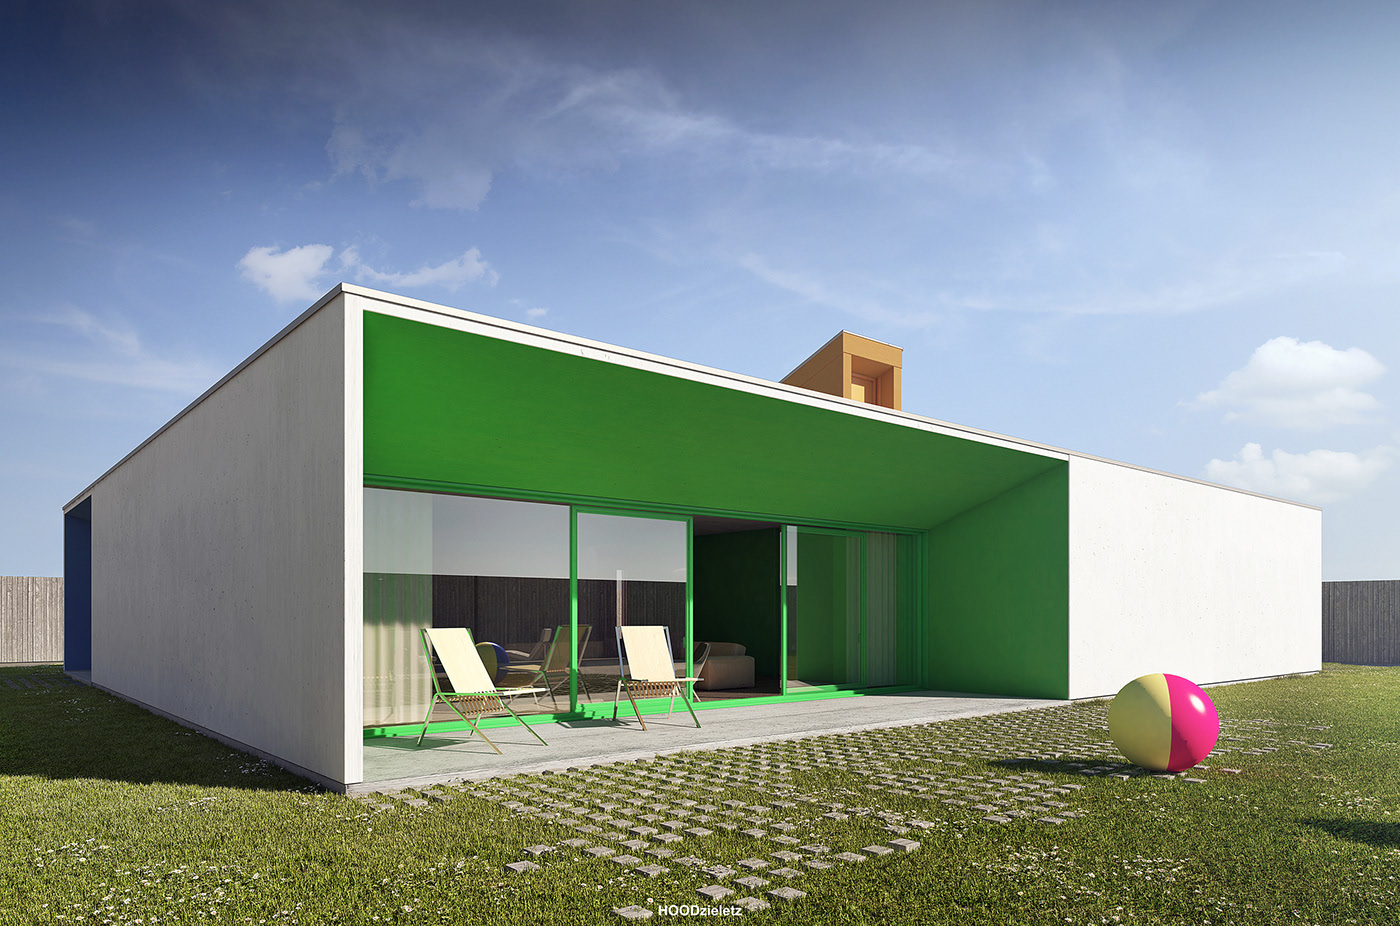
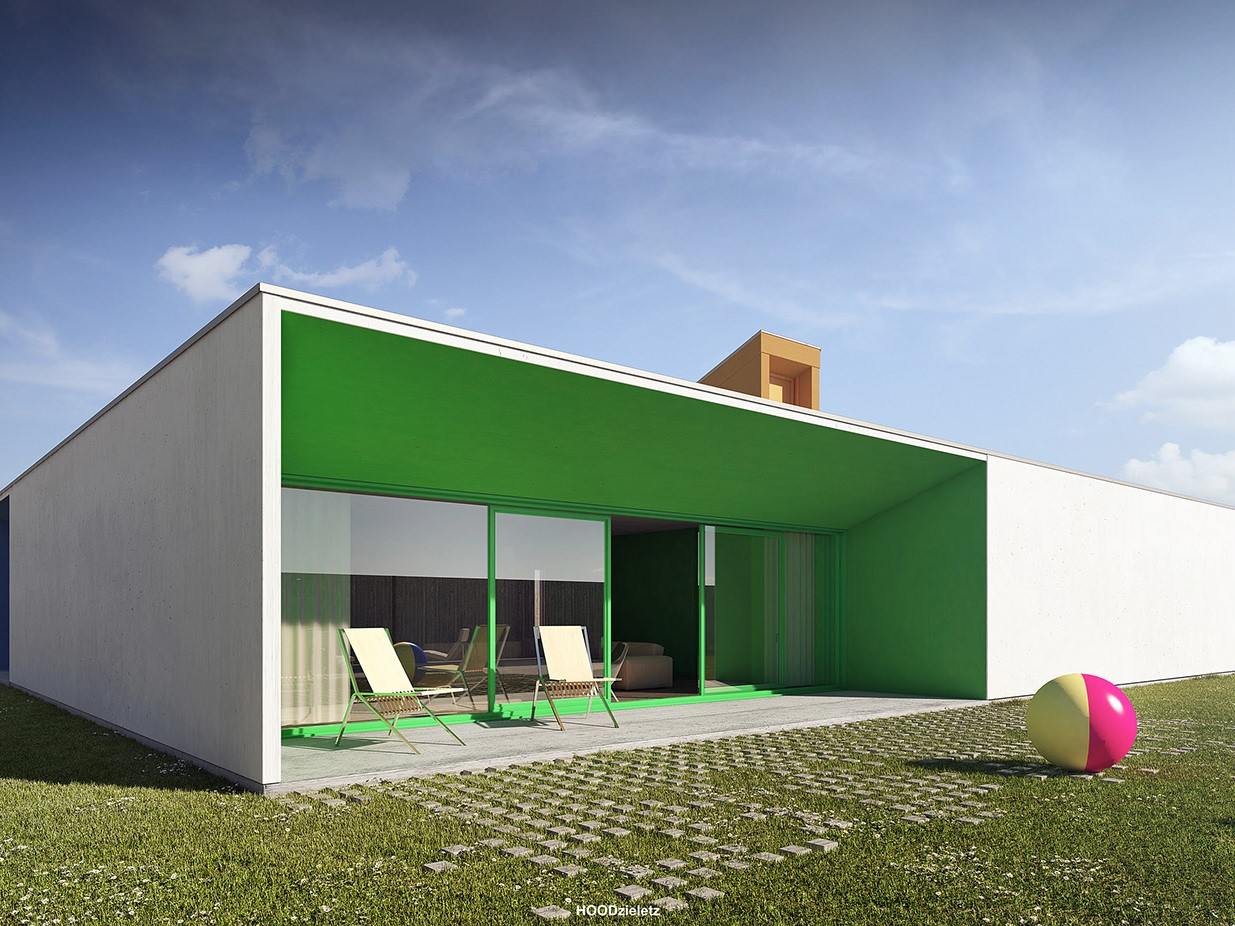
[손건] 알람 확인후 제거 기능 추가/ 메인 화면 이미지 사이즈 확대

diff --git a/src/main/java/com/VIG/mvc/web/alarm/RestAlarmController.java b/src/main/java/com/VIG/mvc/web/alarm/RestAlarmController.java
@@ -2,12 +2,15 @@ package com.VIG.mvc.web.alarm;
 
 import java.util.ArrayList;
 import java.util.List;
-
 import javax.servlet.http.HttpSession;
+
+import org.apache.logging.log4j.LogManager;
+import org.apache.logging.log4j.Logger;
 
 import org.springframework.beans.factory.annotation.Autowired;
 import org.springframework.beans.factory.annotation.Qualifier;
 import org.springframework.beans.factory.annotation.Value;
+import org.springframework.web.bind.annotation.PathVariable;
 import org.springframework.web.bind.annotation.RequestMapping;
 import org.springframework.web.bind.annotation.RequestMethod;
 import org.springframework.web.bind.annotation.RestController;
@@ -19,7 +22,8 @@ import com.VIG.mvc.service.domain.User;
 
 @RestController
 @RequestMapping("/alarm/*")
-public class RestAlarmController {
+public class RestAlarmController {	
+	
 	@Autowired
 	@Qualifier("alarmServicesImpl")
 	private AlarmServices alarmServices;
@@ -29,6 +33,8 @@ public class RestAlarmController {
 
 	@Value("#{commonProperties['pageSize'] ?: 5}")
 	int pageSize;
+	
+		
 	
 	public RestAlarmController(){
 	}
@@ -82,6 +88,13 @@ public class RestAlarmController {
 		return alarmData;
 	}
 	
+	@RequestMapping(value="json/getCheckAlarms/{id}",method = RequestMethod.GET)
+	public boolean getCheckAlarm(@PathVariable int id ) throws Exception{		
+	
+		alarmServices.updateAlarmView(id);
+		
+		return true;
+	}
 	
 	
 	

diff --git a/src/main/java/com/VIG/mvc/service/alarm/impl/AlarmDaoImpl.java b/src/main/java/com/VIG/mvc/service/alarm/impl/AlarmDaoImpl.java
@@ -54,4 +54,10 @@ public class AlarmDaoImpl implements AlarmDao {
 		return sqlSession.selectOne("AlarmMapper.getLastAlarmId");
 	}
 
+	@Override
+	public void updateAlarmView(int id) throws Exception {
+		// TODO Auto-generated method stub
+		sqlSession.update("AlarmMapper.updateAlarmView",id);
+	}
+
 }

diff --git a/src/main/java/com/VIG/mvc/service/alarm/AlarmDao.java b/src/main/java/com/VIG/mvc/service/alarm/AlarmDao.java
@@ -12,6 +12,8 @@ public interface AlarmDao {
 		
 	public void deleteOldAlarm(int date) throws Exception;
 	
-	public int getLastAlarmId() throws Exception;
+	public int getLastAlarmId() throws Exception;	
+	
+	public void updateAlarmView(int id) throws Exception;
 
 }

diff --git a/src/main/java/com/VIG/mvc/service/alarm/impl/AlarmServicesImpl.java b/src/main/java/com/VIG/mvc/service/alarm/impl/AlarmServicesImpl.java
@@ -47,4 +47,10 @@ public class AlarmServicesImpl implements AlarmServices {
 		return alarmDao.getLastAlarmId();
 	}
 
+	@Override
+	public void updateAlarmView(int id) throws Exception {
+		// TODO Auto-generated method stub
+		alarmDao.updateAlarmView(id);
+	}
+
 }

diff --git a/src/main/java/com/VIG/mvc/service/alarm/AlarmServices.java b/src/main/java/com/VIG/mvc/service/alarm/AlarmServices.java
@@ -13,5 +13,7 @@ public interface AlarmServices {
 	public void deleteOldAlarm(int date) throws Exception;
 	
 	public int getLastAlarmId() throws Exception;
+	
+	public void updateAlarmView(int id) throws Exception;
 
 }
